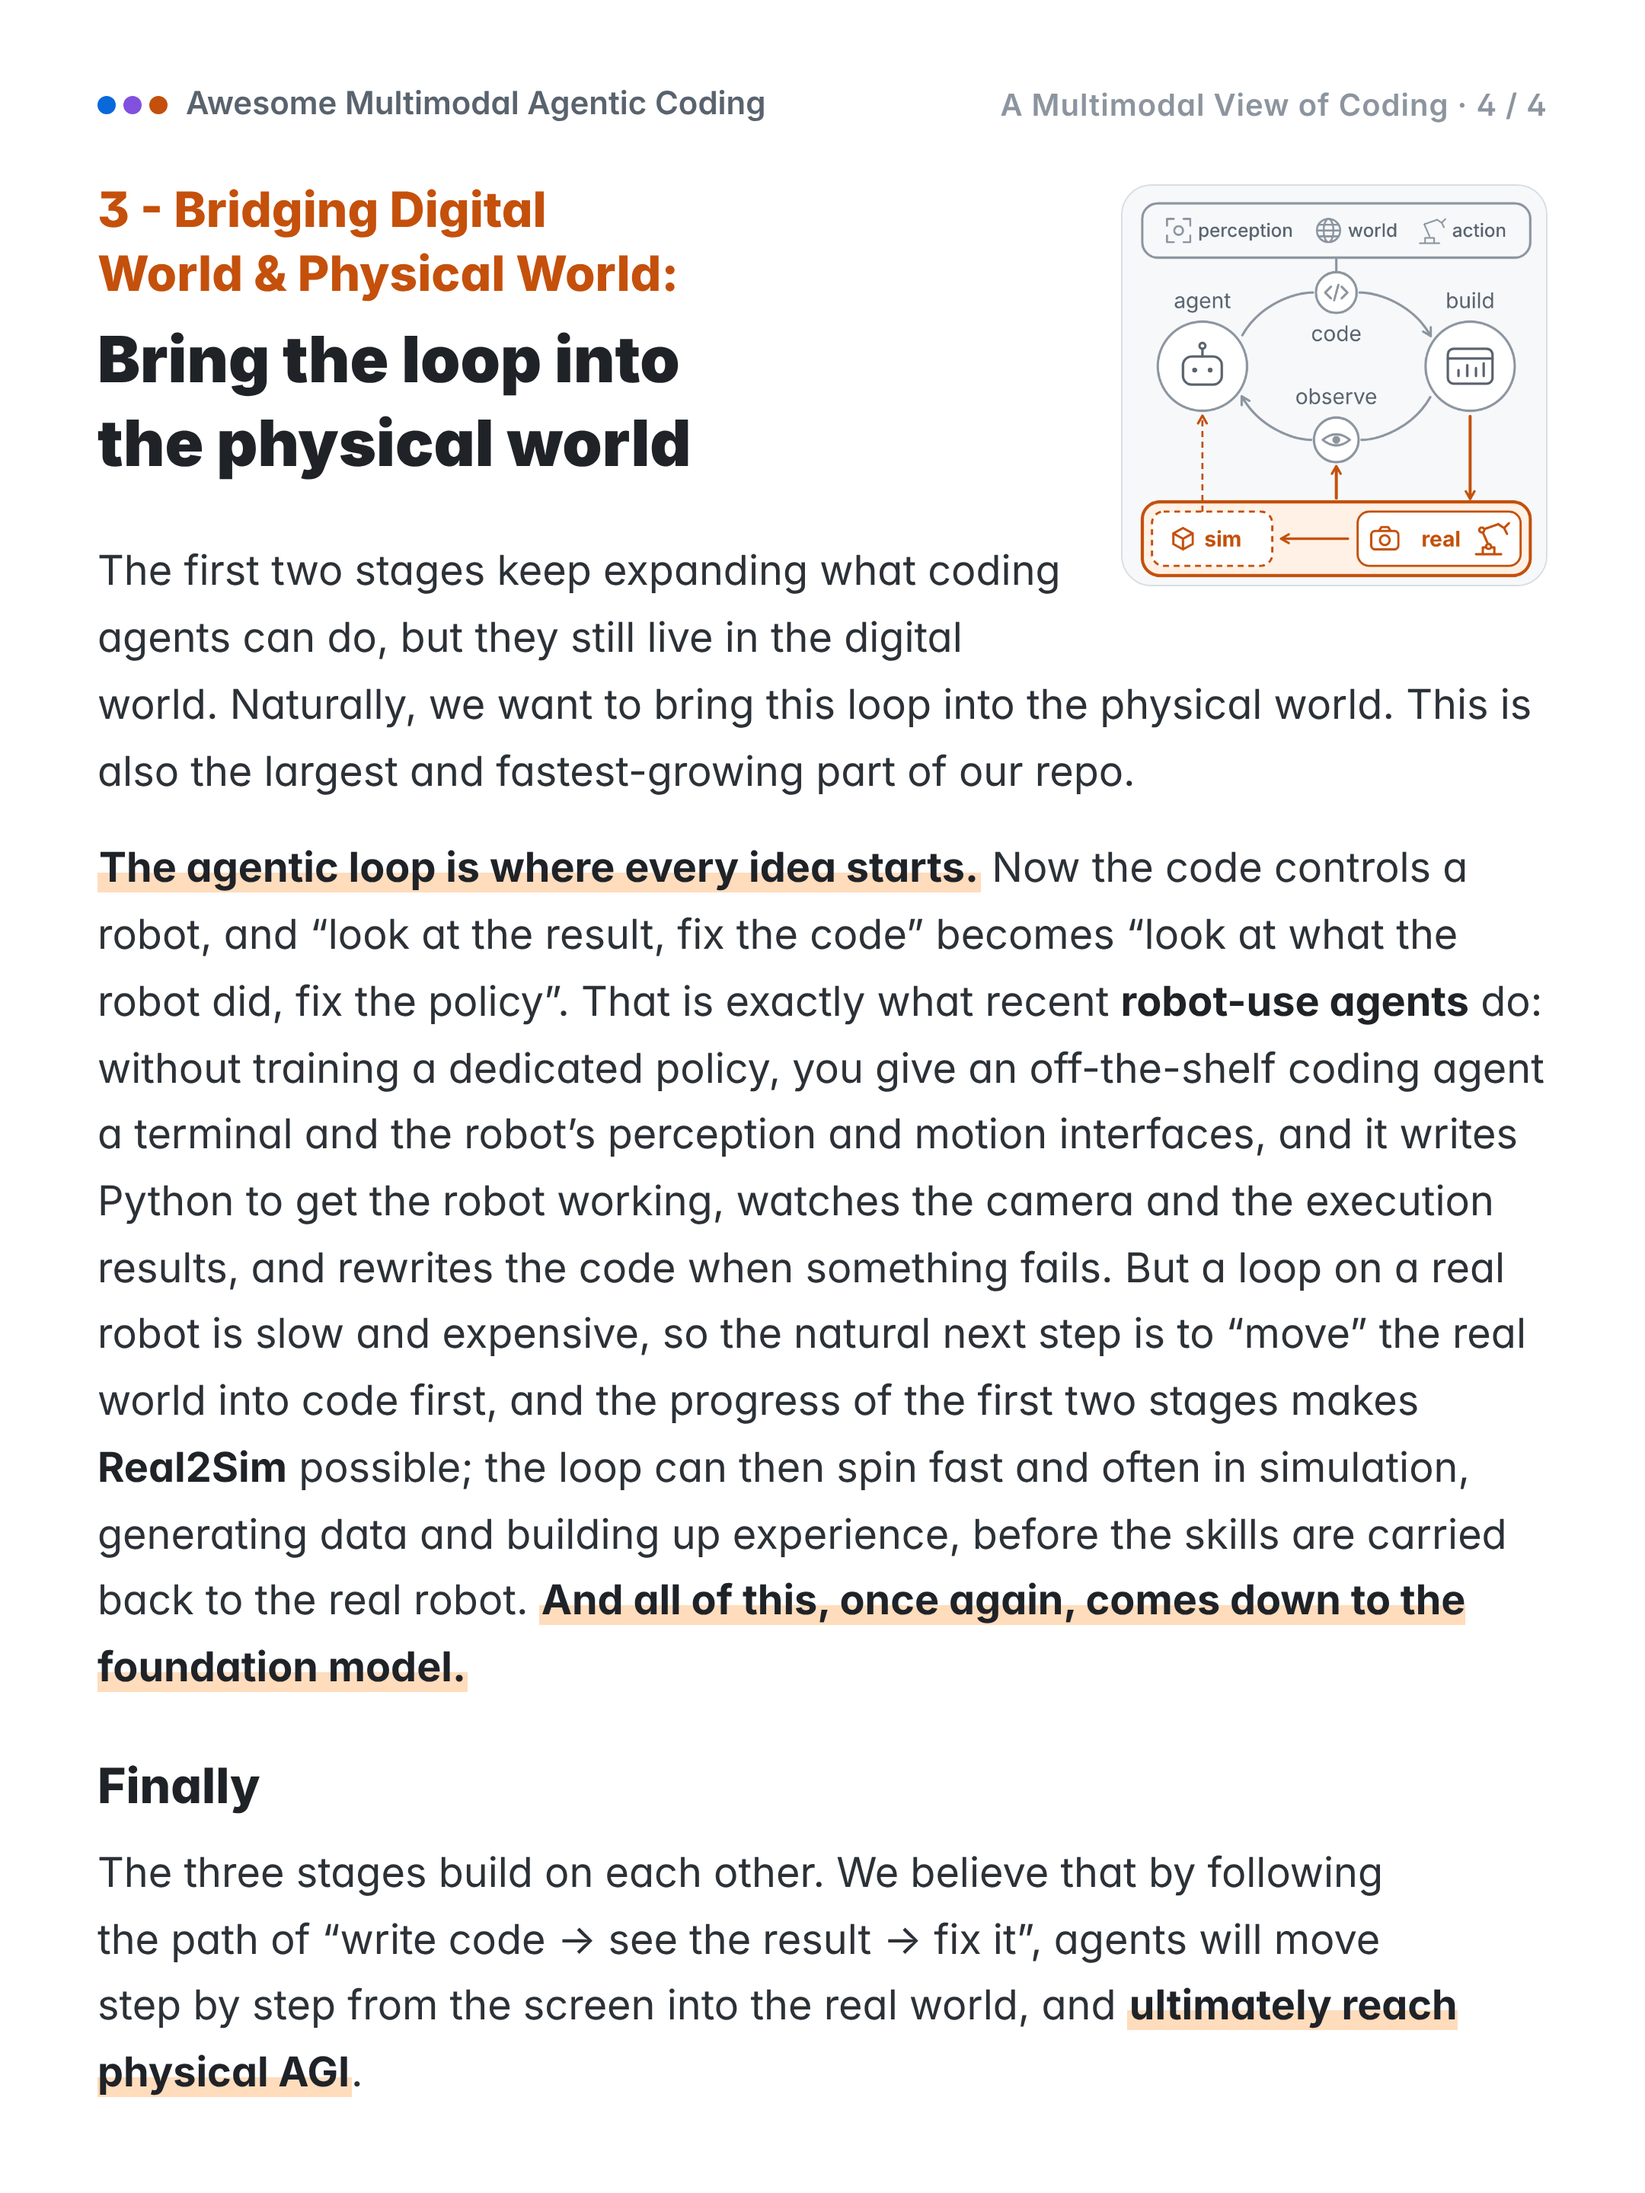
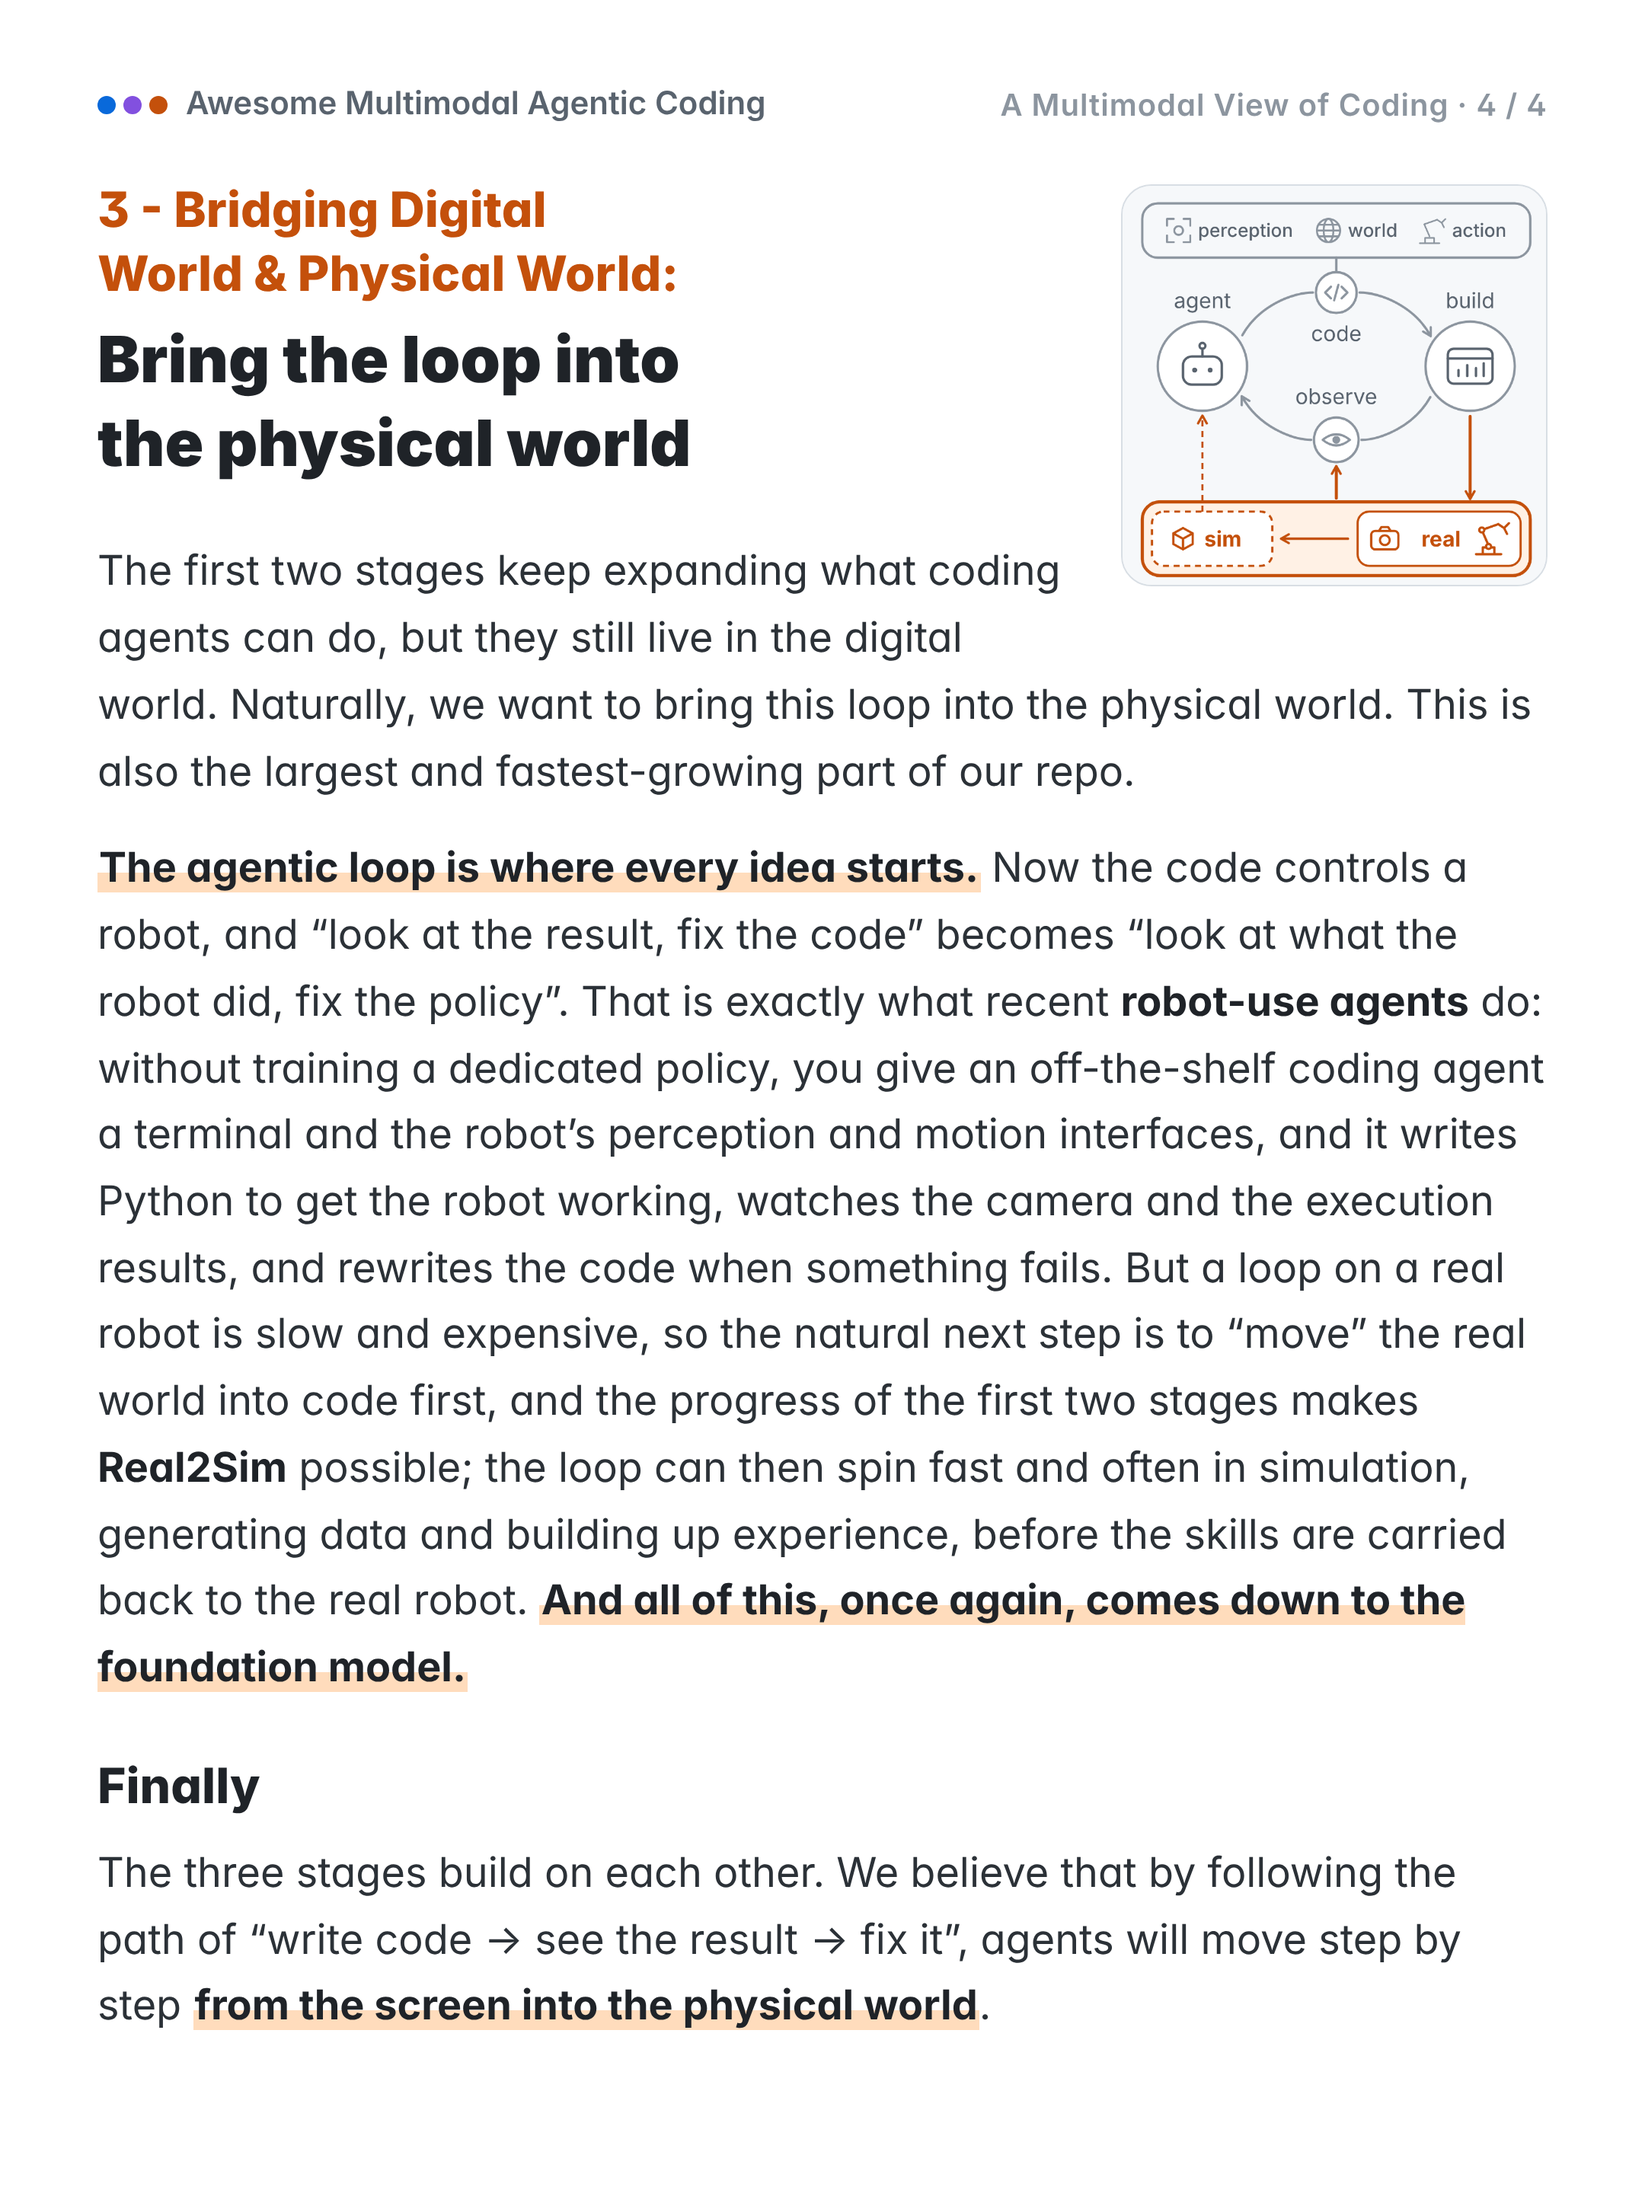
Tone down the closing line of the post body
End the body with "从屏幕走向物理世界" (and "from the screen into the
physical world" in English) instead of "最终通向物理 AGI"; the slogan
stays on the cover, title and short post.

Claude-Session: https://claude.ai/code/session_01PZLRnhK6KdyKQiDbpVhFsH

Changed region(s): [[0.062, 0.8438, 0.8995, 0.9688]]

diff --git a/promo/gen.js b/promo/gen.js
@@ -142,7 +142,7 @@ const stage3 = () => article(4, 2, `
   <p style="margin-top:36px">前两个阶段不断扩展着 coding agent 的能力边界，但都还在 digital world 里。很自然地，我们想把这个 loop 带进 physical world。这也是我们仓库里现在最大、涨得最快的一块。</p>
   <p>${hl('Agentic Loop 是一切想法的开始。')}coding控制的就是一台机器人，「看结果改代码」变成了「看动作结果改策略」。最近的 <b>Robot Use Agent</b> 做的正是这件事：不用专门训练一个策略，只给现成的 coding agent 一个终端和机器人的感知、运动接口，它就能自己写 Python 让机器人干活，看相机画面和执行结果，失败了就改代码再试。但真机上的 loop 又慢又贵，于是很自然地想先把真实世界「搬」进代码里，而前两个阶段的发展为 Real2Sim 提供了可能；再在仿真里把 loop 转得又快又多，造数据、攒经验，最后把能力带回真机。${hl('这一切又是基模的故事了')}</p>
   <div class="h3">最后</div>
-  <p style="margin-top:18px">三个阶段是层层叠上去的。我们相信，沿着「写代码 → 看结果 → 再改」这条路，agent 会一步步从屏幕走进真实世界，${hl('最终通向物理 AGI')}。</p>`);
+  <p style="margin-top:18px">三个阶段是层层叠上去的。我们相信，沿着「写代码 → 看结果 → 再改」这条路，agent 会一步步${hl('从屏幕走向物理世界')}。</p>`);
 
 const topbarEn = (n) => `<div class="topbar"><span class="brand"><span class="dots">${C.acc.map((c) => `<i style="background:${c}"></i>`).join('')}</span>Awesome Multimodal Agentic Coding</span><span class="prog">A Multimodal View of Coding · ${n} / 4</span></div>`;
 const articleEn = (n, i, body) => `<div class="page ar en" style="${vars(i)}">${topbarEn(n)}${wrap(n, body)}</div>`;
@@ -195,7 +195,7 @@ const stage3En = () => articleEn(4, 2, `
   <p style="margin-top:34px">The first two stages keep expanding what coding agents can do, but they still live in the digital world. Naturally, we want to bring this loop into the physical world. This is also the largest and fastest-growing part of our repo.</p>
   <p>${hl('The agentic loop is where every idea starts.')} Now the code controls a robot, and “look at the result, fix the code” becomes “look at what the robot did, fix the policy”. That is exactly what recent <b>robot-use agents</b> do: without training a dedicated policy, you give an off-the-shelf coding agent a terminal and the robot’s perception and motion interfaces, and it writes Python to get the robot working, watches the camera and the execution results, and rewrites the code when something fails. But a loop on a real robot is slow and expensive, so the natural next step is to “move” the real world into code first, and the progress of the first two stages makes <b>Real2Sim</b> possible; the loop can then spin fast and often in simulation, generating data and building up experience, before the skills are carried back to the real robot. ${hl('And all of this, once again, comes down to the foundation model.')}</p>
   <div class="h3">Finally</div>
-  <p style="margin-top:16px">The three stages build on each other. We believe that by following the path of “write code → see the result → fix it”, agents will move step by step from the screen into the real world, and ${hl('ultimately reach physical AGI')}.</p>`);
+  <p style="margin-top:16px">The three stages build on each other. We believe that by following the path of “write code → see the result → fix it”, agents will move step by step ${hl('from the screen into the physical world')}.</p>`);
 
 (async () => {
   fs.mkdirSync(path.join(OUT, 'en'), { recursive: true });

diff --git a/promo/post.en.md b/promo/post.en.md
@@ -85,7 +85,7 @@ The agentic loop is where every idea starts. Now the code controls a robot, and 
 
 #### Finally
 
-The three stages build on each other. We believe that by following the path of “write code → see the result → fix it”, agents will move step by step from the screen into the real world, and ultimately reach physical AGI.
+The three stages build on each other. We believe that by following the path of “write code → see the result → fix it”, agents will move step by step from the screen into the physical world.
 
 ## First comment
 
